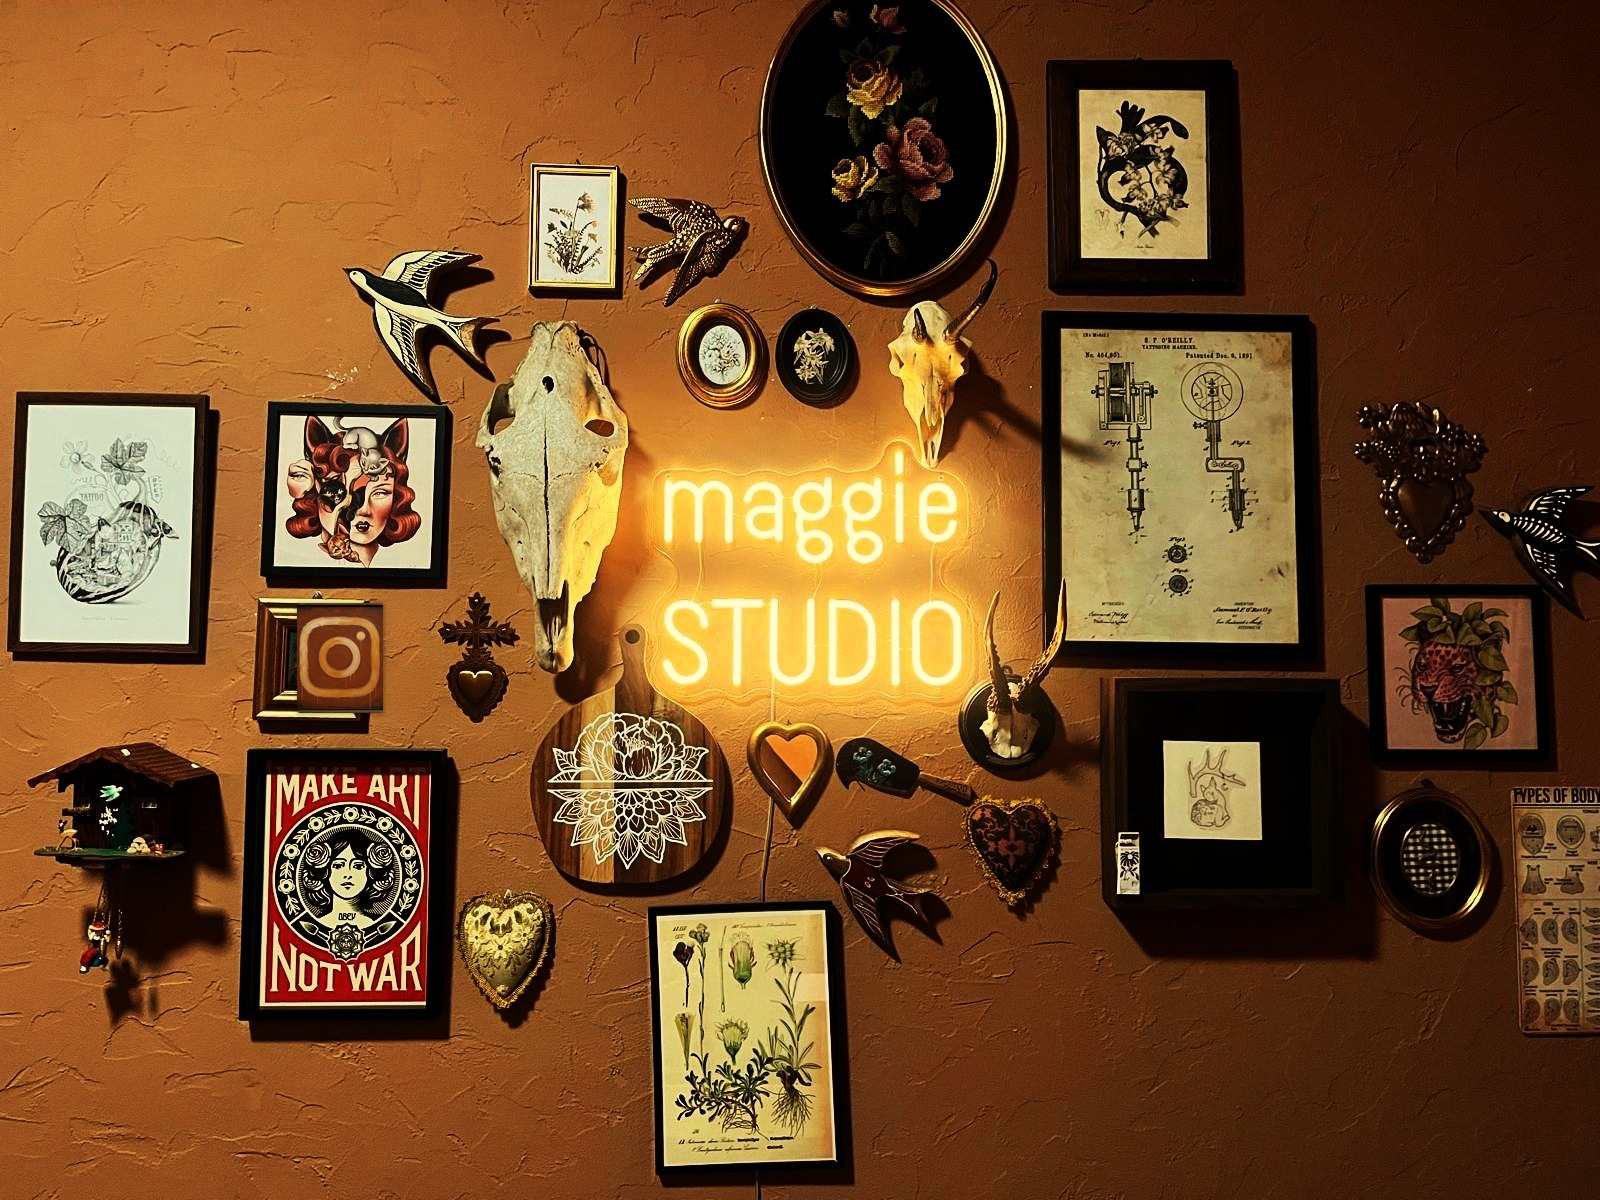
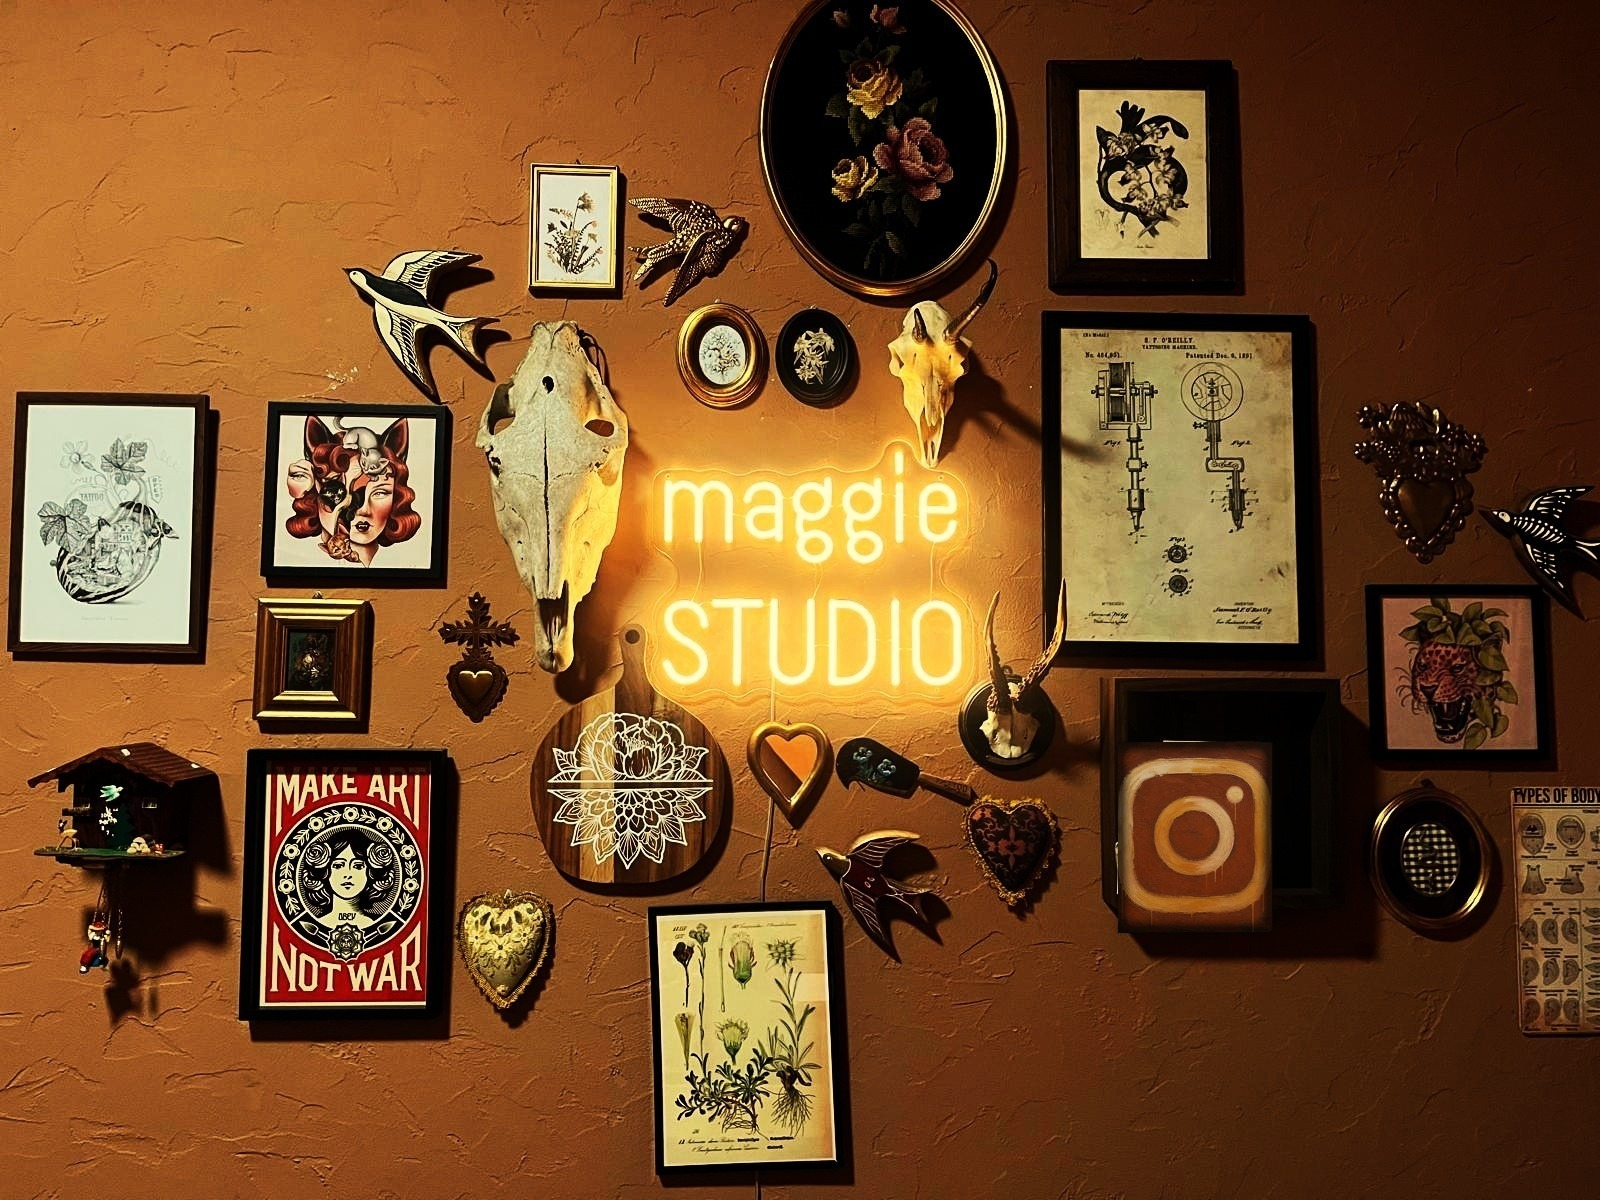
Place the painted Instagram artwork inside the wall shadow-box frame.
Moves it from the small gold frame into the larger deer box so the logo reads clearly, and updates the hotspot to match.

Changed region(s): [[0.6875, 0.6167, 0.8125, 0.7708], [0.1875, 0.4933, 0.25, 0.6167]]

diff --git a/web/src/lib/wall-cutouts.ts b/web/src/lib/wall-cutouts.ts
@@ -103,10 +103,10 @@ export const wallCutouts: WallCutout[] = [
     "href": "https://www.instagram.com/lamaggietattoo_studio/",
     "labelKey": "wallInstagram",
     "external": true,
-    "leftPct": 17.188,
-    "topPct": 47.917,
-    "widthPct": 8.125,
-    "heightPct": 13.333,
+    "leftPct": 68.75,
+    "topPct": 61.25,
+    "widthPct": 11.875,
+    "heightPct": 17.5,
     "bakedIn": true
   }
 ];

diff --git a/scripts/composite_instagram.py b/scripts/composite_instagram.py
@@ -1,3 +1,4 @@
+"""Paint the Instagram artwork into the deer shadow-box frame on the wall."""
 from PIL import Image, ImageDraw, ImageFilter, ImageEnhance, ImageOps
 import os
 
@@ -6,45 +7,67 @@ backup = os.path.join(base_dir, "1-original.jpeg")
 out_path = os.path.join(base_dir, "1.jpeg")
 ig_path = os.path.join(base_dir, "instagram-painted.png")
 
-if not os.path.exists(backup):
-    Image.open(out_path).save(backup, quality=95)
+GOLD_OUTER = (275, 575, 405, 735)
 
-im = Image.open(backup).convert("RGBA")
+# Deer shadow box — keep the dark moulding, fill the full recess
+FRAME_OUTER = (1100, 735, 1290, 945)
+FRAME_INNER = (1118, 742, 1272, 932)
 
-# Full gold frame outer bounds (1600x1200 source)
-frame = (275, 575, 405, 735)
-# Inner artwork window (inside cream/dark mat)
-inner = (297, 603, 383, 713)
+im = Image.open(out_path).convert("RGBA")
+orig = Image.open(backup).convert("RGBA")
+
+# Restore gold frame (previous composites sometimes spilled onto it)
+im.paste(orig.crop(GOLD_OUTER), (GOLD_OUTER[0], GOLD_OUTER[1]))
+
+inner = FRAME_INNER
 iw, ih = inner[2] - inner[0], inner[3] - inner[1]
 print("inner", iw, ih, "at", inner)
 
+# Flat dark mat first so nothing from the old contents shows through
+mat = Image.new("RGBA", im.size, (0, 0, 0, 0))
+ImageDraw.Draw(mat).rectangle(inner, fill=(12, 8, 6, 255))
+im = Image.alpha_composite(im, mat)
+
 ig = Image.open(ig_path).convert("RGBA")
+trim = int(min(ig.size) * 0.05)
+ig = ig.crop((trim, trim, ig.width - trim, ig.height - trim))
 ig_fit = ImageOps.fit(ig, (iw, ih), method=Image.Resampling.LANCZOS)
 r, g, b, _ = ig_fit.split()
 rgb = Image.merge("RGB", (r, g, b))
-rgb = ImageEnhance.Color(rgb).enhance(0.9)
-rgb = ImageEnhance.Contrast(rgb).enhance(1.08)
-rgb = ImageEnhance.Brightness(rgb).enhance(0.93)
+rgb = ImageEnhance.Color(rgb).enhance(0.92)
+rgb = ImageEnhance.Contrast(rgb).enhance(1.06)
+rgb = ImageEnhance.Brightness(rgb).enhance(0.88)
 ig_fit = rgb.convert("RGBA")
 
 mask = Image.new("L", (iw, ih), 0)
-md = ImageDraw.Draw(mask)
-md.rounded_rectangle((0, 0, iw - 1, ih - 1), radius=3, fill=255)
-mask = mask.filter(ImageFilter.GaussianBlur(0.8))
+ImageDraw.Draw(mask).rounded_rectangle((0, 0, iw - 1, ih - 1), radius=2, fill=255)
+mask = mask.filter(ImageFilter.GaussianBlur(0.5))
 
 shadow = Image.new("RGBA", im.size, (0, 0, 0, 0))
-sd = ImageDraw.Draw(shadow)
-sd.rectangle(inner, fill=(15, 8, 4, 100))
+ImageDraw.Draw(shadow).rectangle(inner, fill=(0, 0, 0, 90))
 shadow = shadow.filter(ImageFilter.GaussianBlur(2))
 im = Image.alpha_composite(im, shadow)
 im.paste(ig_fit, (inner[0], inner[1]), mask)
+
+# Inner edge vignette so art sits in the recess
+edge = Image.new("L", (iw, ih), 255)
+ImageDraw.Draw(edge).rectangle((0, 0, iw - 1, ih - 1), outline=0, width=max(4, iw // 24))
+edge = edge.filter(ImageFilter.GaussianBlur(5))
+dark = Image.new("RGBA", (iw, ih), (0, 0, 0, 0))
+dark.putalpha(Image.eval(edge, lambda p: min(160, 255 - p)))
+layer = Image.new("RGBA", im.size, (0, 0, 0, 0))
+layer.paste(dark, (inner[0], inner[1]))
+im = Image.alpha_composite(im, layer)
 
 result = im.convert("RGB")
 result.save(out_path, quality=92, optimize=True)
 print("saved", out_path)
 
-# also sync project root images copy if present
+result.crop((1040, 700, 1320, 980)).save(
+    os.path.join(base_dir, "_preview_wide.jpg"), quality=92
+)
+print("preview updated")
+
 root = r"c:\Users\Admin\Documents\Projects\lamaggie\images\1.jpeg"
 if os.path.isdir(os.path.dirname(root)):
     result.save(root, quality=92, optimize=True)
-    print("synced root images/1.jpeg")

diff --git a/scripts/cutout_wall_menu.py b/scripts/cutout_wall_menu.py
@@ -65,9 +65,9 @@ OBJECTS = [
     },
 ]
 
-# Gold frame for Instagram (inner artwork window)
-IG_FRAME_INNER = (297, 603, 383, 713)
-IG_FRAME_OUTER = (275, 575, 405, 735)
+# Deer shadow box for Instagram (inner artwork window)
+IG_FRAME_INNER = (1118, 742, 1272, 932)
+IG_FRAME_OUTER = (1100, 735, 1290, 945)
 
 
 def sample_wall_color(im: Image.Image, box: tuple[int, int, int, int]) -> tuple[int, int, int]:
@@ -146,23 +146,28 @@ def main() -> None:
             }
         )
 
-    print("painting Instagram into gold frame...")
+    print("painting Instagram into deer shadow-box frame...")
     ig = Image.open(IG).convert("RGBA")
+    trim = int(min(ig.size) * 0.05)
+    ig = ig.crop((trim, trim, ig.width - trim, ig.height - trim))
     inner = IG_FRAME_INNER
     iw, ih = inner[2] - inner[0], inner[3] - inner[1]
+    wall_rgba = wall.convert("RGBA")
+    mat = Image.new("RGBA", wall.size, (0, 0, 0, 0))
+    ImageDraw.Draw(mat).rectangle(inner, fill=(12, 8, 6, 255))
+    wall_rgba = Image.alpha_composite(wall_rgba, mat)
     ig_fit = ImageOps.fit(ig, (iw, ih), method=Image.Resampling.LANCZOS)
     r, g, b, _ = ig_fit.split()
     rgb = Image.merge("RGB", (r, g, b))
-    rgb = ImageEnhance.Color(rgb).enhance(0.9)
-    rgb = ImageEnhance.Contrast(rgb).enhance(1.08)
-    rgb = ImageEnhance.Brightness(rgb).enhance(0.93)
+    rgb = ImageEnhance.Color(rgb).enhance(0.92)
+    rgb = ImageEnhance.Contrast(rgb).enhance(1.06)
+    rgb = ImageEnhance.Brightness(rgb).enhance(0.88)
     ig_fit = rgb.convert("RGBA")
     mask = Image.new("L", (iw, ih), 0)
-    ImageDraw.Draw(mask).rounded_rectangle((0, 0, iw - 1, ih - 1), radius=3, fill=255)
-    mask = mask.filter(ImageFilter.GaussianBlur(0.8))
-    wall_rgba = wall.convert("RGBA")
+    ImageDraw.Draw(mask).rounded_rectangle((0, 0, iw - 1, ih - 1), radius=2, fill=255)
+    mask = mask.filter(ImageFilter.GaussianBlur(0.5))
     shadow = Image.new("RGBA", wall.size, (0, 0, 0, 0))
-    ImageDraw.Draw(shadow).rectangle(inner, fill=(15, 8, 4, 100))
+    ImageDraw.Draw(shadow).rectangle(inner, fill=(0, 0, 0, 90))
     shadow = shadow.filter(ImageFilter.GaussianBlur(2))
     wall_rgba = Image.alpha_composite(wall_rgba, shadow)
     wall_rgba.paste(ig_fit, (inner[0], inner[1]), mask)
